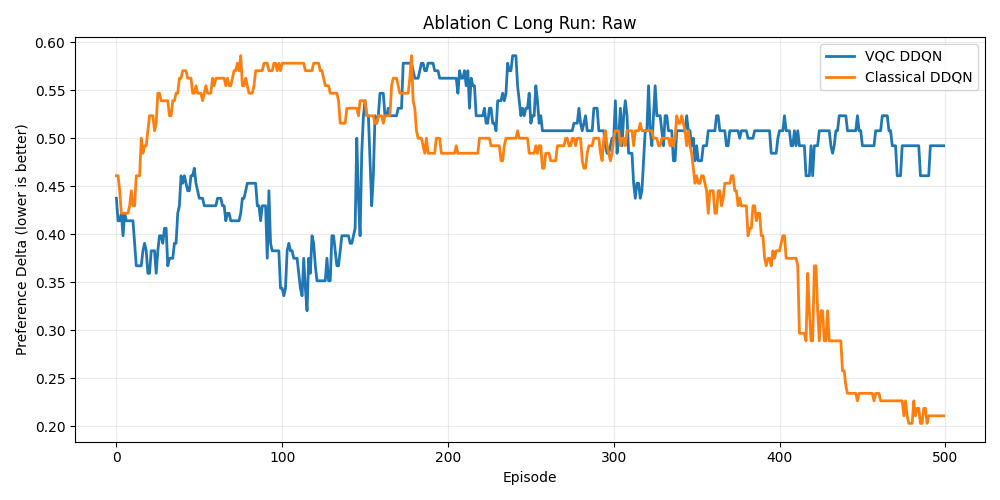
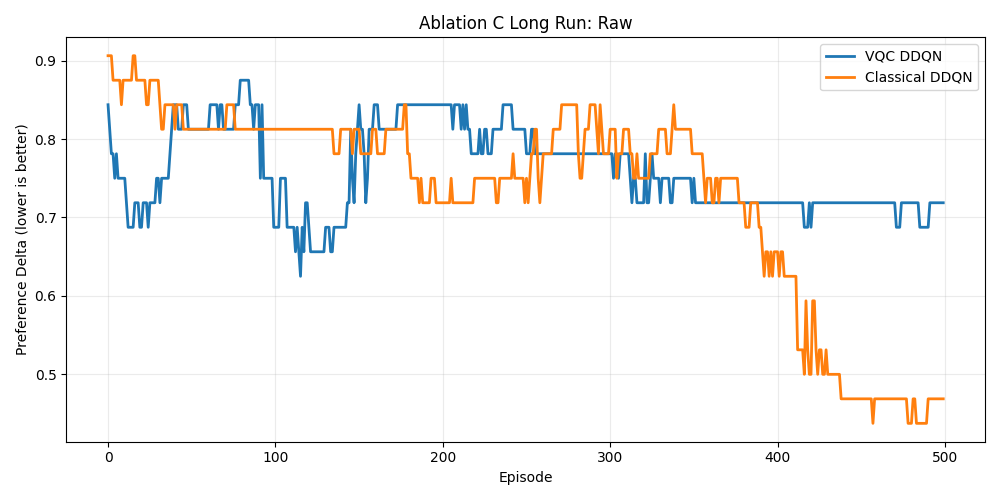
latest model

diff --git a/quantum/train.py b/quantum/train.py
@@ -125,25 +125,23 @@ def load_dataset_transitions(data_dir: str | Path, n_actions: int = N_ACTIONS) -
 def evaluate_policy_pref_delta(
     net,
     transitions: list[Transition],
-    sample_count: int = 32,
+    sample_count: int = 64,
     n_actions: int = N_ACTIONS,
 ) -> float:
-    pref_deltas: list[float] = []
-
     if not transitions:
         return 0.0
 
     eval_batch = transitions[: min(sample_count, len(transitions))]
+    hits = 0
 
     with torch.no_grad():
         for state, expected_action, _, _, _ in eval_batch:
-
             state_tensor = torch.tensor(state, dtype=torch.float32).unsqueeze(0)
             predicted_action = int(net(state_tensor).argmax(dim=1).item())
-            pref_delta = abs(predicted_action - expected_action) / (n_actions - 1)
-            pref_deltas.append(pref_delta)
+            if predicted_action == expected_action:
+                hits += 1
 
-    return sum(pref_deltas) / float(len(pref_deltas))
+    return 1.0 - (hits / len(eval_batch))
 
 
 def evaluate_policy_action_entropy(
